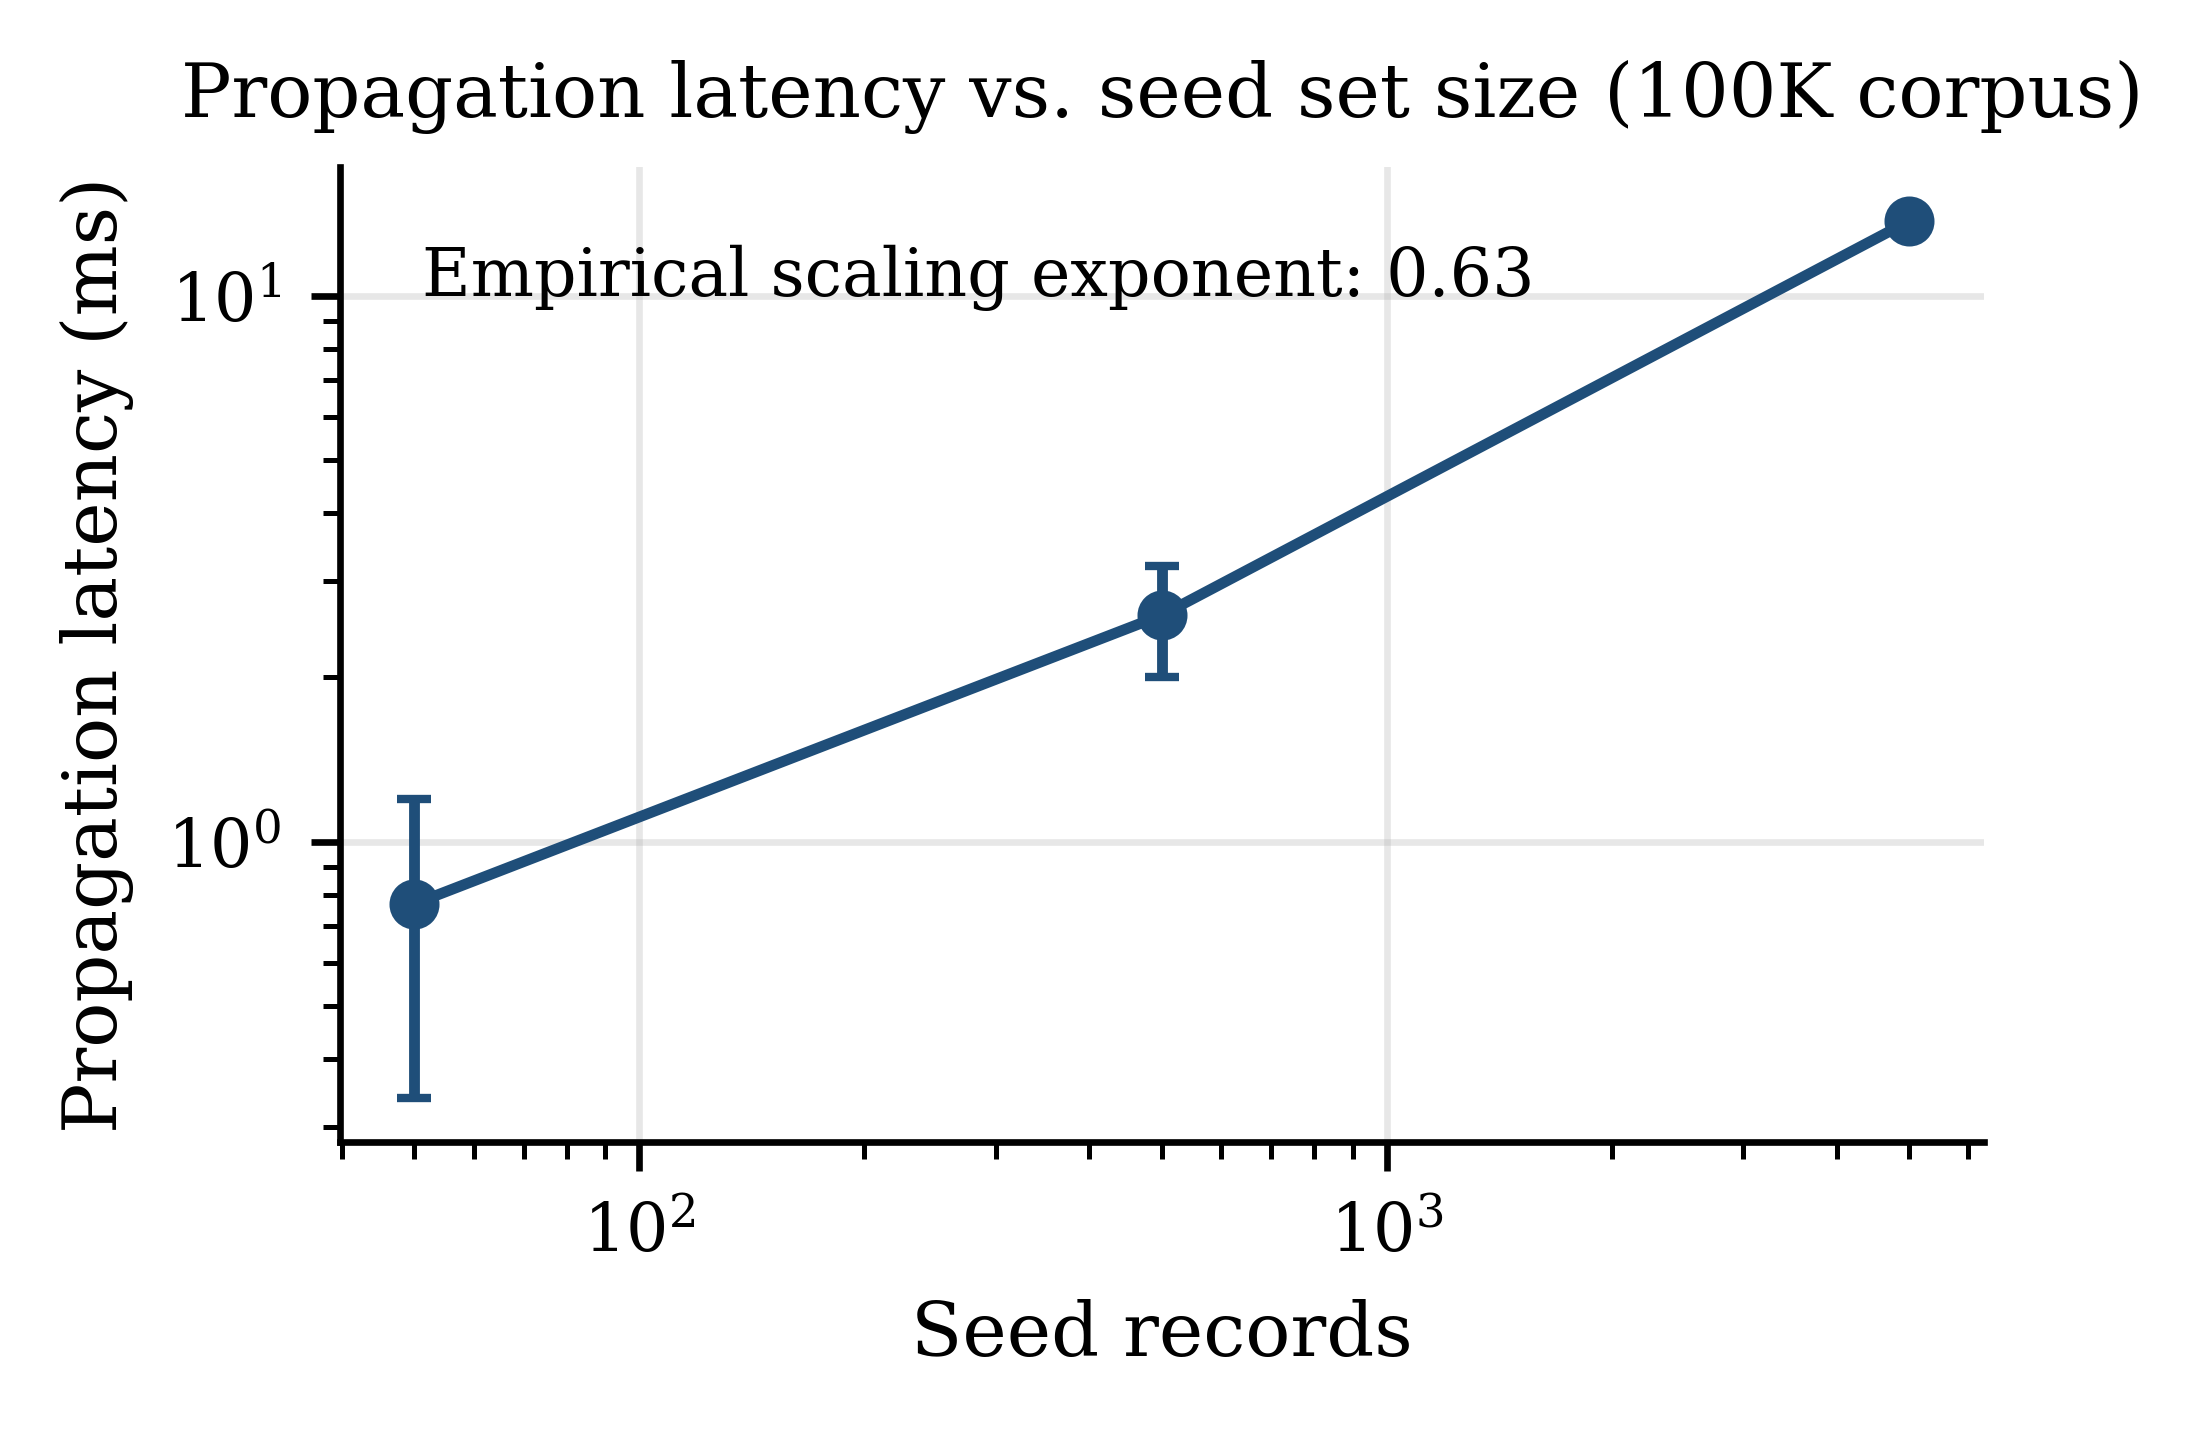
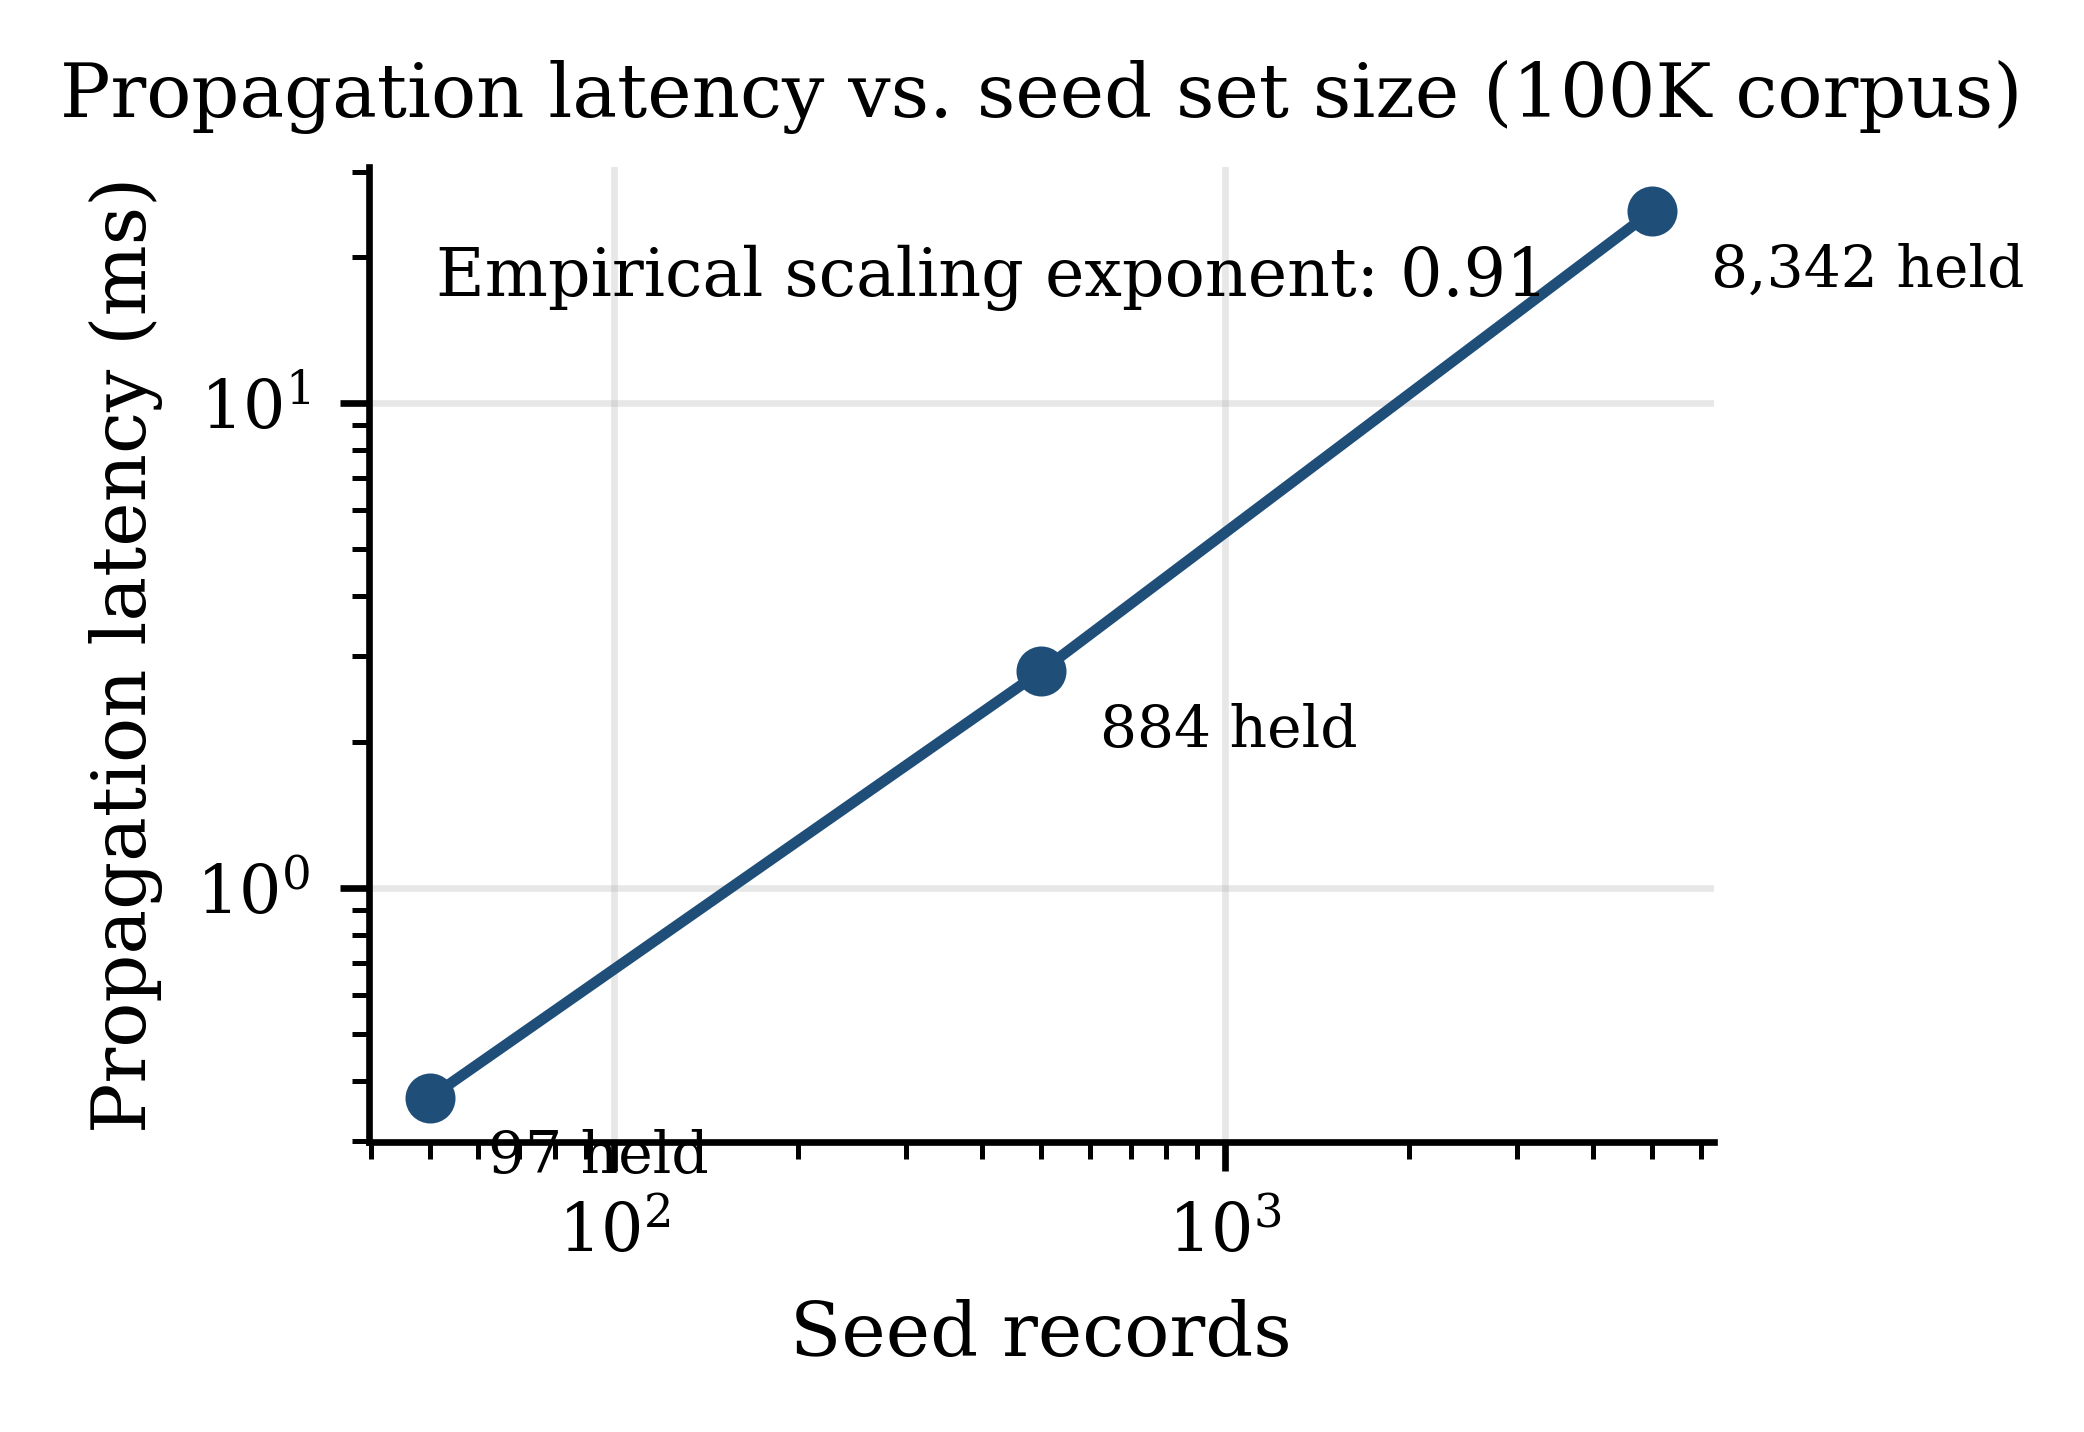
Regenerate fig6 propagation latency to match tab:largeseed (plotting fix, no experiment rerun)
fig6_propagation_vs_seeds now reads e8_large_seed_propagation from the frozen
results.json: seed-42 latency (0.37/2.80/24.89 ms) and 10-seed-mean hold sets
(97/884/8342), matching tab:largeseed exactly; printed scaling exponent 0.91.
fig8 intentionally NOT regenerated: tab:propagation (All-types 227, 4.55x) is
not reproducible from the frozen run (214.2, 4.284x) -- held for table review.

diff --git a/figures/make_figures.py b/figures/make_figures.py
@@ -1,8 +1,8 @@
 """Render the paper figures as IEEE Access submission-grade assets.
 
-Data-driven figures (2, 3, 5, 7, noise_sweep) are computed live from
+Data-driven figures (2, 3, 5, 6, 7, noise_sweep) are computed live from
 experiments/results.json so they match the canonical run / MANIFEST.md exactly.
-Timing / propagation figures (4, 6, 8, 9) carry the published values unchanged
+Timing / propagation figures (4, 8, 9) carry the published values unchanged
 and are re-exported to vector PDF for submission quality.
 
 Every figure is written as a true vector PDF (plt.savefig .pdf) plus a 600-DPI
@@ -243,13 +243,16 @@ ax2.grid(False)
 ax1.set_title("Scalability: throughput and detection latency")
 save(fig, "fig4_scalability")
 
-# ---- Figure 6: propagation latency vs seed set -----------------------------
+# ---- Figure 6: propagation latency vs seed set (tab:largeseed) --------------
+# Canonical source: results.json e8_large_seed_propagation (100K corpus, depth 5).
+# tab:largeseed reports the seed-42 latency and the 10-seed-mean hold-set size;
+# both are reproduced live here so the figure matches the table exactly.
+e8 = R["e8_large_seed_propagation"]
 seeds_n = np.array([50, 500, 5000])
-latency = np.array([0.77, 2.6, 13.7])
-latency_sd = np.array([0.43, 0.6, 0.6])
+latency = np.array([e8[str(s)]["latency_ms"][0] for s in seeds_n])          # seed 42 == tab:largeseed
+hold = np.array([mean(e8[str(s)]["hold_size"]) for s in seeds_n])
 fig, ax = plt.subplots(figsize=(3.5, 2.5))
-ax.errorbar(seeds_n, latency, yerr=latency_sd, marker="o", linestyle="-",
-            ms=5, color="#1f4e79", capsize=2)
+ax.plot(seeds_n, latency, ms=5, **line("trkg"))
 ax.set_xscale("log")
 ax.set_yscale("log")
 ax.set_xlabel("Seed records")
@@ -258,7 +261,14 @@ ax.set_title("Propagation latency vs. seed set size (100K corpus)")
 slope = np.polyfit(np.log10(seeds_n), np.log10(latency), 1)[0]
 ax.text(0.05, 0.92, f"Empirical scaling exponent: {slope:.2f}",
         transform=ax.transAxes, fontsize=8, va="top")
+for x, y, h in zip(seeds_n, latency, hold):
+    ax.annotate(f"{h:,.0f} held", (x, y), textcoords="offset points",
+                xytext=(7, -9), fontsize=7)
 save(fig, "fig6_propagation_vs_seeds")
+report["fig6"] = {"seeds": seeds_n.tolist(),
+                  "latency_ms": [round(float(v), 2) for v in latency],
+                  "hold": [round(float(h)) for h in hold],
+                  "exponent": round(float(slope), 2)}
 
 # ---- Figure 8: propagation policies ----------------------------------------
 configs = ["Siloed", "Att", "Thread", "Att+Thread", "+Deriv", "All"]
